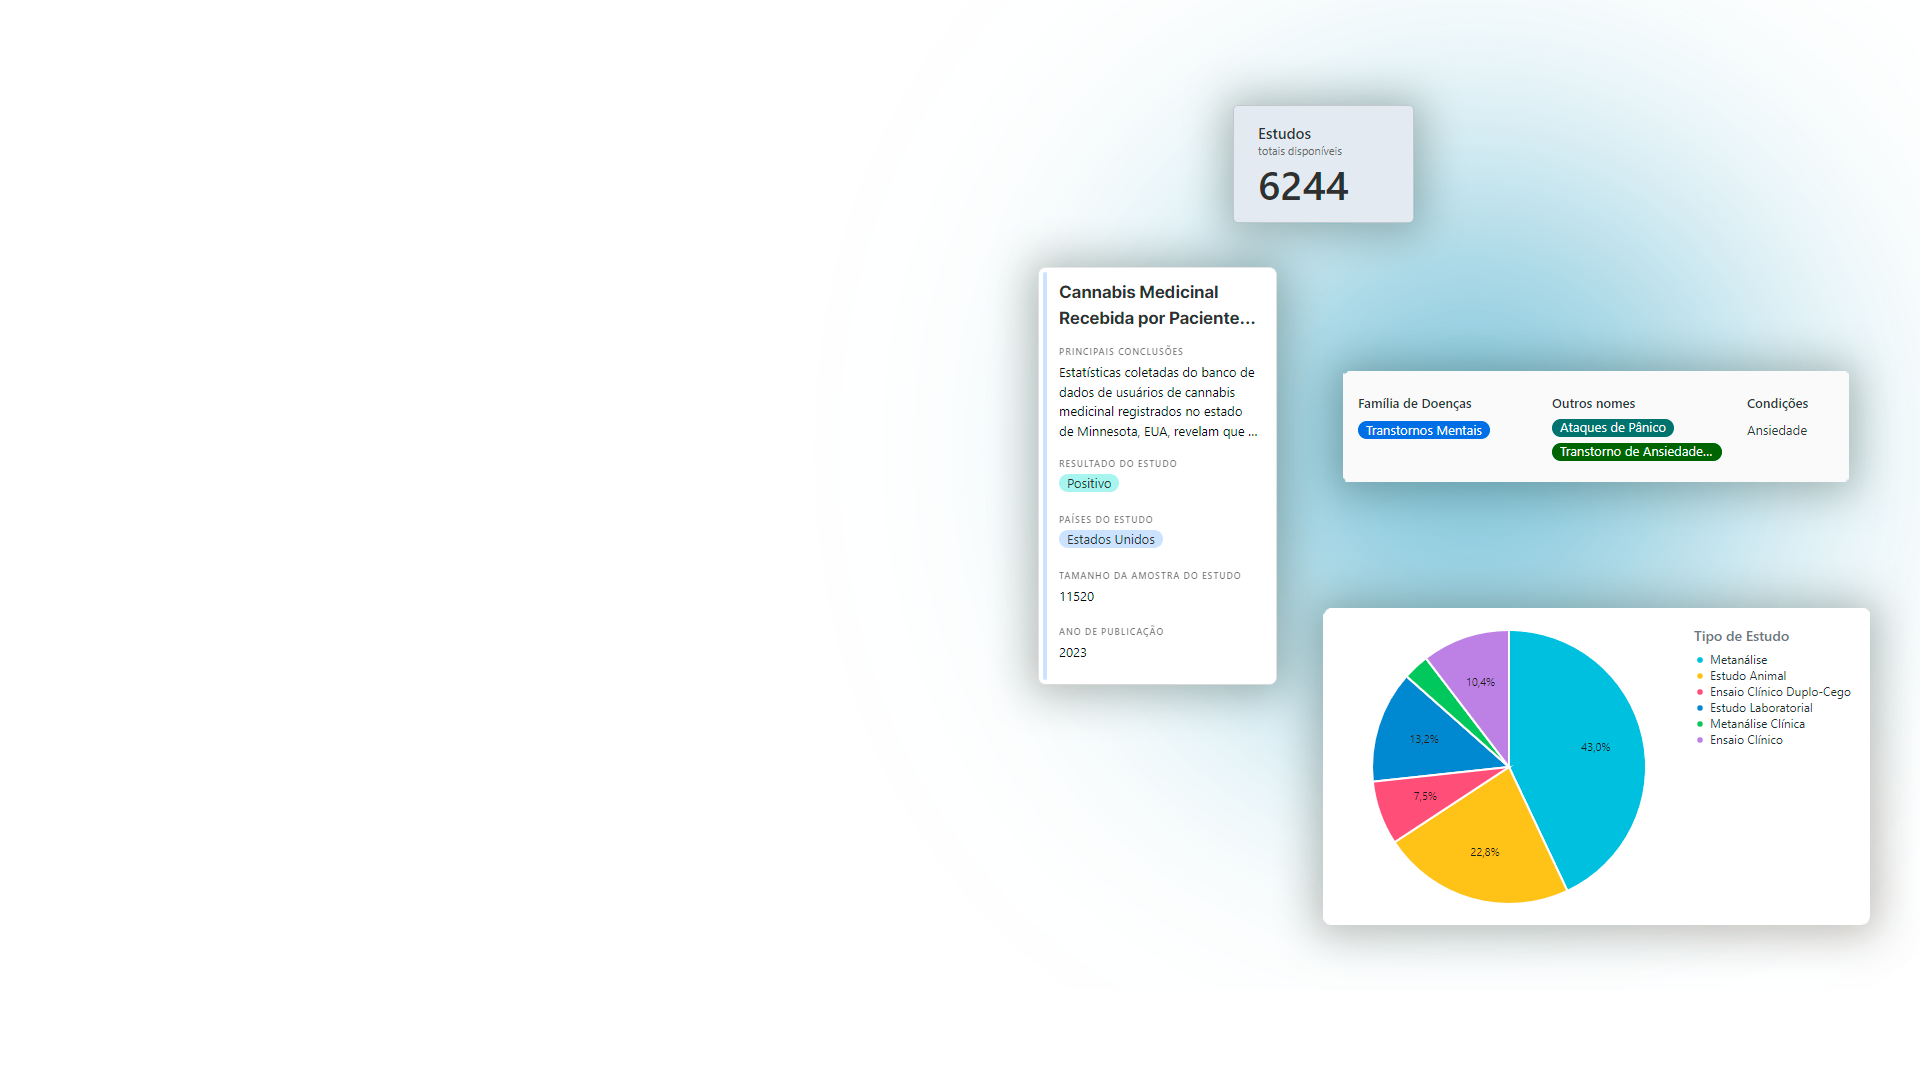
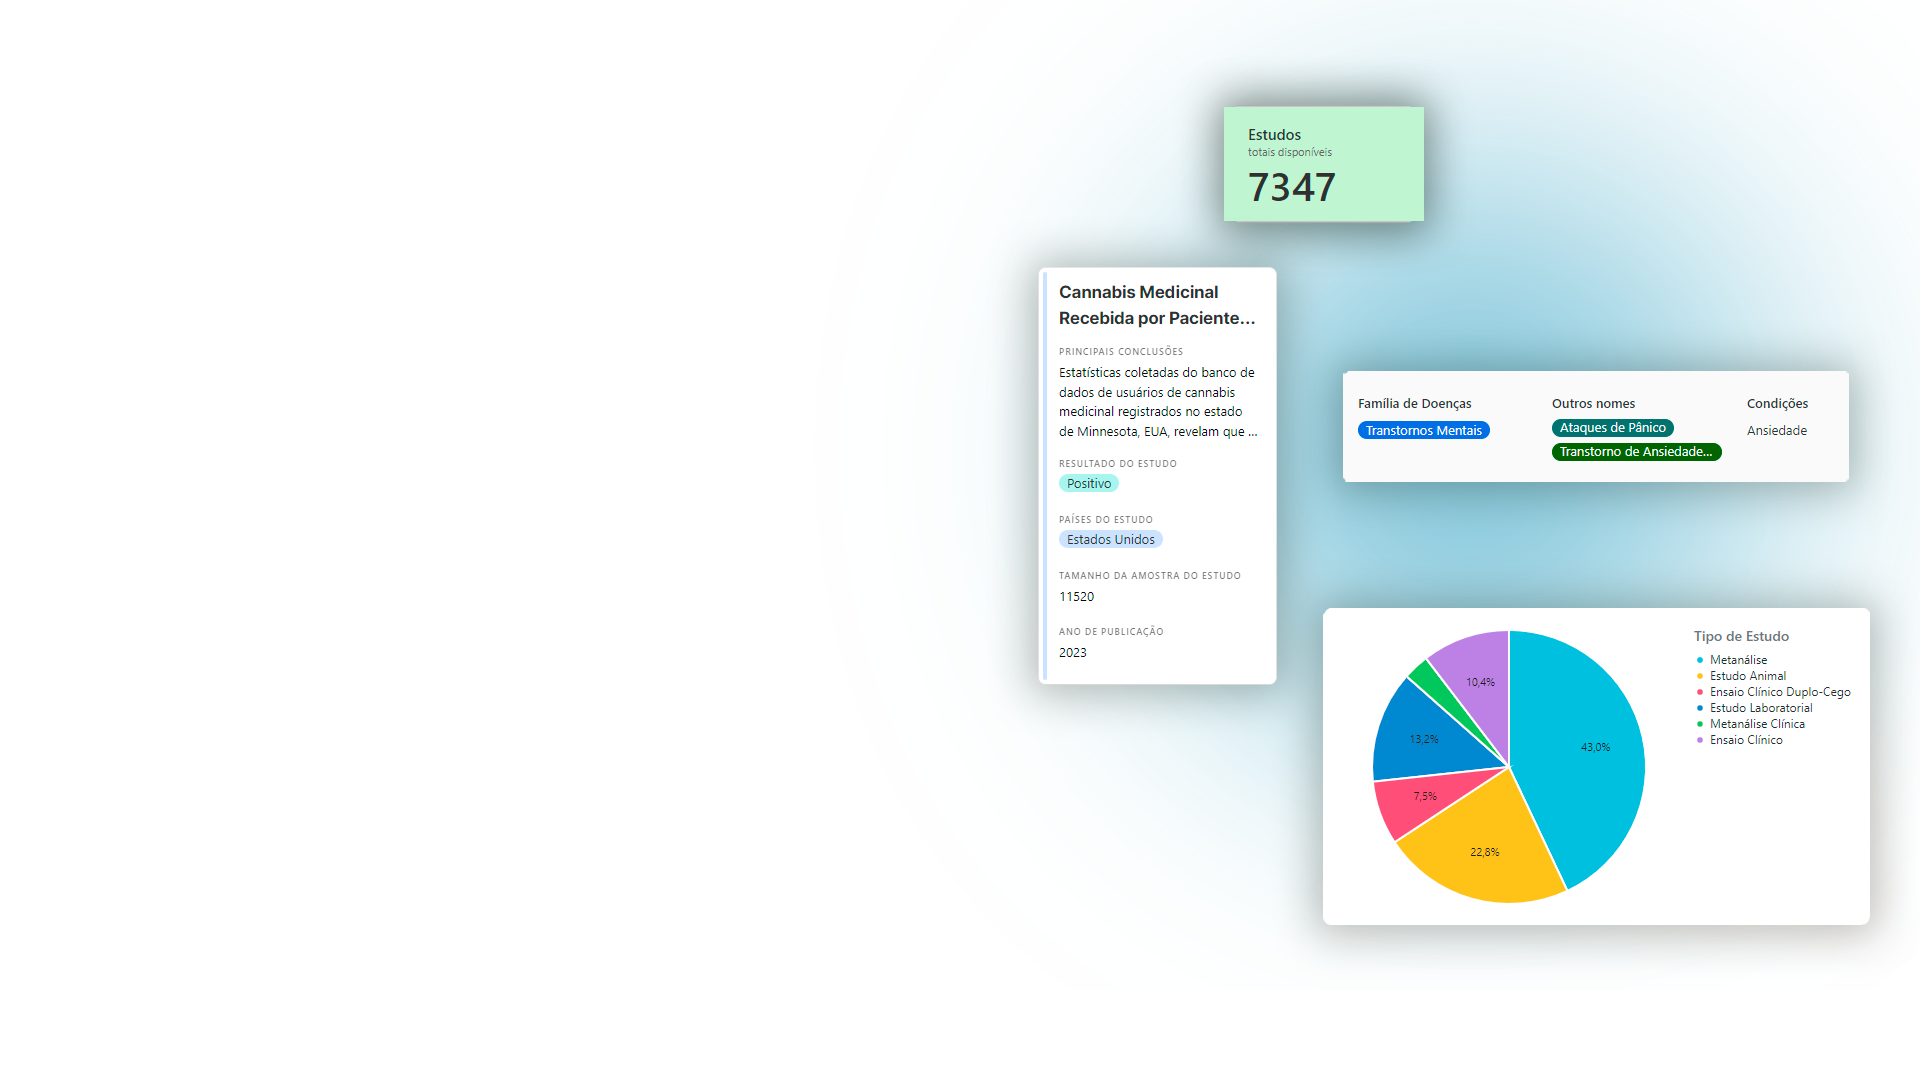
final

Changed region(s): [[0.625, 0.0917, 0.75, 0.2139]]

diff --git a/src/components/navbar.tsx b/src/components/navbar.tsx
@@ -6,10 +6,10 @@ import { Bars3Icon, XMarkIcon, } from '@heroicons/react/24/outline'
 
 
 const navigations = [
-    { name: 'Menu', href: '#' },
-    { name: 'Menu', href: '#' },
-    { name: 'Menu', href: '#' },
-    { name: 'Menu', href: '#' },
+    { name: 'Recursos', href: '#recursos' },
+    { name: 'Preço', href: '#cadastro' },
+    { name: 'FAQ', href: '#faq' },
+
 
 ]
 
@@ -38,7 +38,7 @@ export default function NavBar() {
                 <div className="flex">
                 </div>
                 <div className="flex flex-1  justify-end">
-                    <a href="#" className="text-sm font-semibold pt-1 leading-6 text-white">
+                    <a href="https://airtable.com/appPYfdqtuYZsLmSS/pagdEbd3mtmXS8xfd" className="text-sm font-semibold pt-1 leading-6 text-white">
                         Log in  →
                     </a>
                     <button
@@ -71,8 +71,9 @@ export default function NavBar() {
                                 {navigations.map((navigation) => (
                                     <div key={navigation.name}>
                                         <a
-                                            href="#"
+                                            href={navigation.href}
                                             className="-mx-3 block rounded-lg px-3 py-2 text-base font-semibold leading-7 text-white hover:bg-gray-800"
+                                            onClick={() => setMobileMenuOpen(false)}
                                         >
                                             {navigation.name}
                                         </a>
@@ -83,7 +84,7 @@ export default function NavBar() {
                             </div>
                             <div className="py-6 ">
                                 <a
-                                    href="#"
+                                    href="https://airtable.com/appPYfdqtuYZsLmSS/pagdEbd3mtmXS8xfd"
                                     className="-mx-3 block rounded-lg px-3 py-2.5 text-base font-semibold leading-7 text-white hover:bg-gray-800"
                                 >
                                     Log in  →

diff --git a/src/components/price.tsx b/src/components/price.tsx
@@ -11,6 +11,7 @@ const tiers = [
         button: <ButtonMensal />,
         priceMonthly: 'R$79',
         recorrency: '/mês',
+        total: '',
         description: "Acesso completo a plataforma durante 1 mês",
         features: [
             '+ 6000 artigos e pesquisas',
@@ -23,8 +24,9 @@ const tiers = [
         name: 'Anual',
         id: 'tier-enterprise',
         button: <ButtonAnual />,
-        priceMonthly: 'R$699',
-        recorrency: '/ano',
+        priceMonthly: 'R$58,25',
+        recorrency: '/mês',
+        total: 'Valor total R$699,00 por ano',
         description: 'Acesso completo a plataforma durante 1 ano',
         features: [
             '+ 6000 artigos e pesquisas',
@@ -62,7 +64,7 @@ export default function PriceCannaDocs() {
             <p className="mx-auto mt-6 max-w-2xl text-center text-lg leading-8 text-gray-600">
                 Escolha o plano que melhor se adequa a sua necessidade e bons estudos.
             </p>
-            <div className="mx-auto mt-16 grid max-w-lg grid-cols-2 items-center gap-y-6 sm:mt-20 sm:gap-y-0 lg:max-w-4xl lg:grid-cols-2">
+            <div className="mx-auto mt-16 grid max-w-lg grid-cols-1 items-center gap-y-6 sm:mt-20 sm:gap-y-0 lg:max-w-4xl lg:grid-cols-2">
                 {tiers.map((tier, tierIdx) => (
                     <div
                         key={tier.id}
@@ -95,7 +97,9 @@ export default function PriceCannaDocs() {
                                 {tier.priceMonthly}
                             </span>
                             <span className={classNames(tier.featured ? 'text-gray-900' : 'text-gray-600', 'text-base')}>{tier.recorrency}</span>
+
                         </p>
+                        <p className="text-gray-800 text-sm">{tier.total}</p>
                         <p className={classNames(tier.featured ? 'text-gray-900' : 'text-gray-600', 'mt-6 text-base leading-7')}>
                             {tier.description}
                         </p>

diff --git a/src/components/depoimentos.tsx b/src/components/depoimentos.tsx
@@ -14,19 +14,19 @@ const testimonials = [
     {
         body: 'Como profissional da saúde, sempre busco embasar minhas práticas em evidências científicas. Encontrar uma plataforma que reúne estudos sobre cannabis medicinal de forma organizada e acessível foi um alívio. Parabéns pelo excelente trabalho!',
         author: {
-            name: 'Dr. Jorge',
-            handle: 'dr_jorge',
+            name: 'Dr. Rodrigo',
+            handle: 'Médico',
             imageUrl:
-                '/dra-qualquer.jpeg',
+                '/dr-rodrigo-eboli-da-costa.jpg',
         },
     },
     {
         body: 'Eu estava cansada de passar horas pesquisando na internet por informações sobre cannabis medicinal. Encontrei tudo o que precisava nessa plataforma, desde estudos sobre diferentes condições até análises específicas de terpenos e canabinoides. Simplificou muito minha vida!',
         author: {
-            name: 'Dra. Lih',
-            handle: 'lihsantos',
+            name: 'Dra. Lorena Feliz',
+            handle: 'Médica',
             imageUrl:
-                '/dra-qualquer.jpeg',
+                '/dra-lorena-feliz.jpg',
         },
     },
 

diff --git a/src/components/stats.tsx b/src/components/stats.tsx
@@ -12,7 +12,7 @@ export default function StatsCannaDocs() {
                 <div className="mx-auto max-w-2xl lg:max-w-none">
                     <div className="text-center">
                         <h2 className="text-4xl font-bold tracking-tight sm:text-5xl bg-gradient-to-r from-cyan-500 to-emerald-500 inline-block text-transparent bg-clip-text">
-                            + de 6.000 estudos e artigos
+                            + de 7.000 estudos e artigos
                         </h2>
                         <p className="mt-4 text-xl leading-8 text-gray-600">
                             O CannaDocs oferece um sistema de filtragem avançado que permite que você encontre rapidamente as informações mais relevantes para suas necessidades clínicas.

diff --git a/src/components/faq.tsx b/src/components/faq.tsx
@@ -78,7 +78,7 @@ const faqs = [
 
 export default function FaqCannaDocs() {
     return (
-        <div className="bg-gray-50 py-24 sm:py-32 px-8  lg:py-40">
+        <div className="bg-gray-50 py-24 sm:py-32 px-8  lg:py-40" id="faq">
             <div className="mx-auto max-w-9xl bg-gradient-to-tr from-azul to-verde rounded-2xl lg:px-8">
                 <div className="py-24  ">
                     <div className="mx-auto max-w-7xl divide-y divide-white/10 px-8">

diff --git a/src/components/cards.tsx b/src/components/cards.tsx
@@ -54,7 +54,7 @@ const features = [
 
 export default function CardsCannaDocs() {
     return (
-        <div className="bg-gray-50 py-24 sm:py-32">
+        <div className="bg-gray-50 py-24 sm:py-32" id="recursos">
             <div className="mx-auto max-w-7xl px-6 lg:px-8">
                 <div className="mx-auto max-w-4xl lg:text-center">
 
